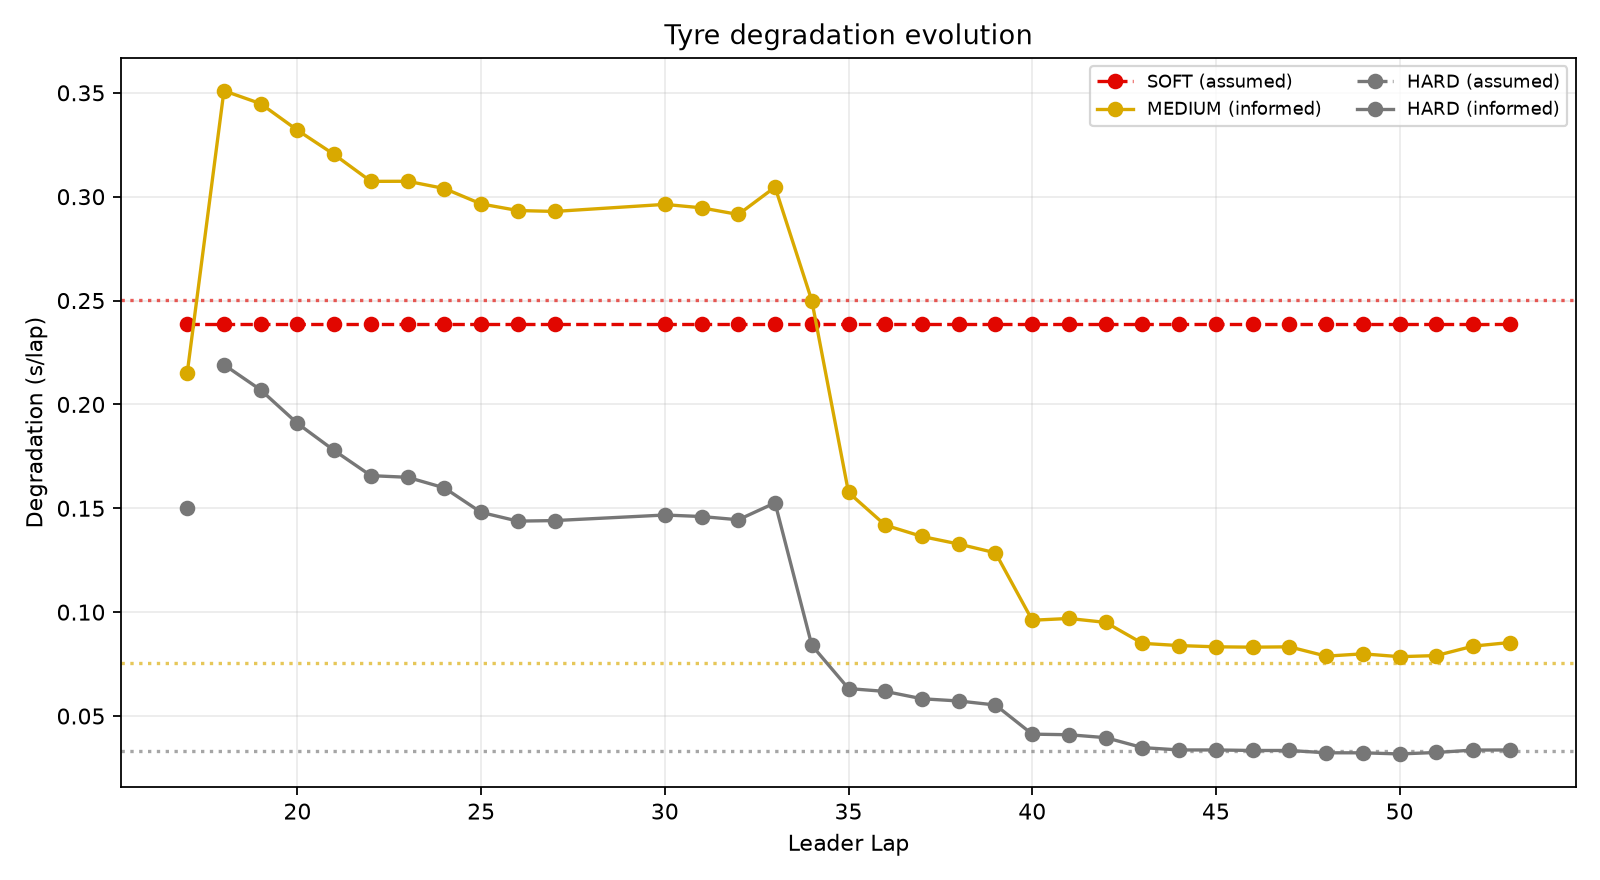
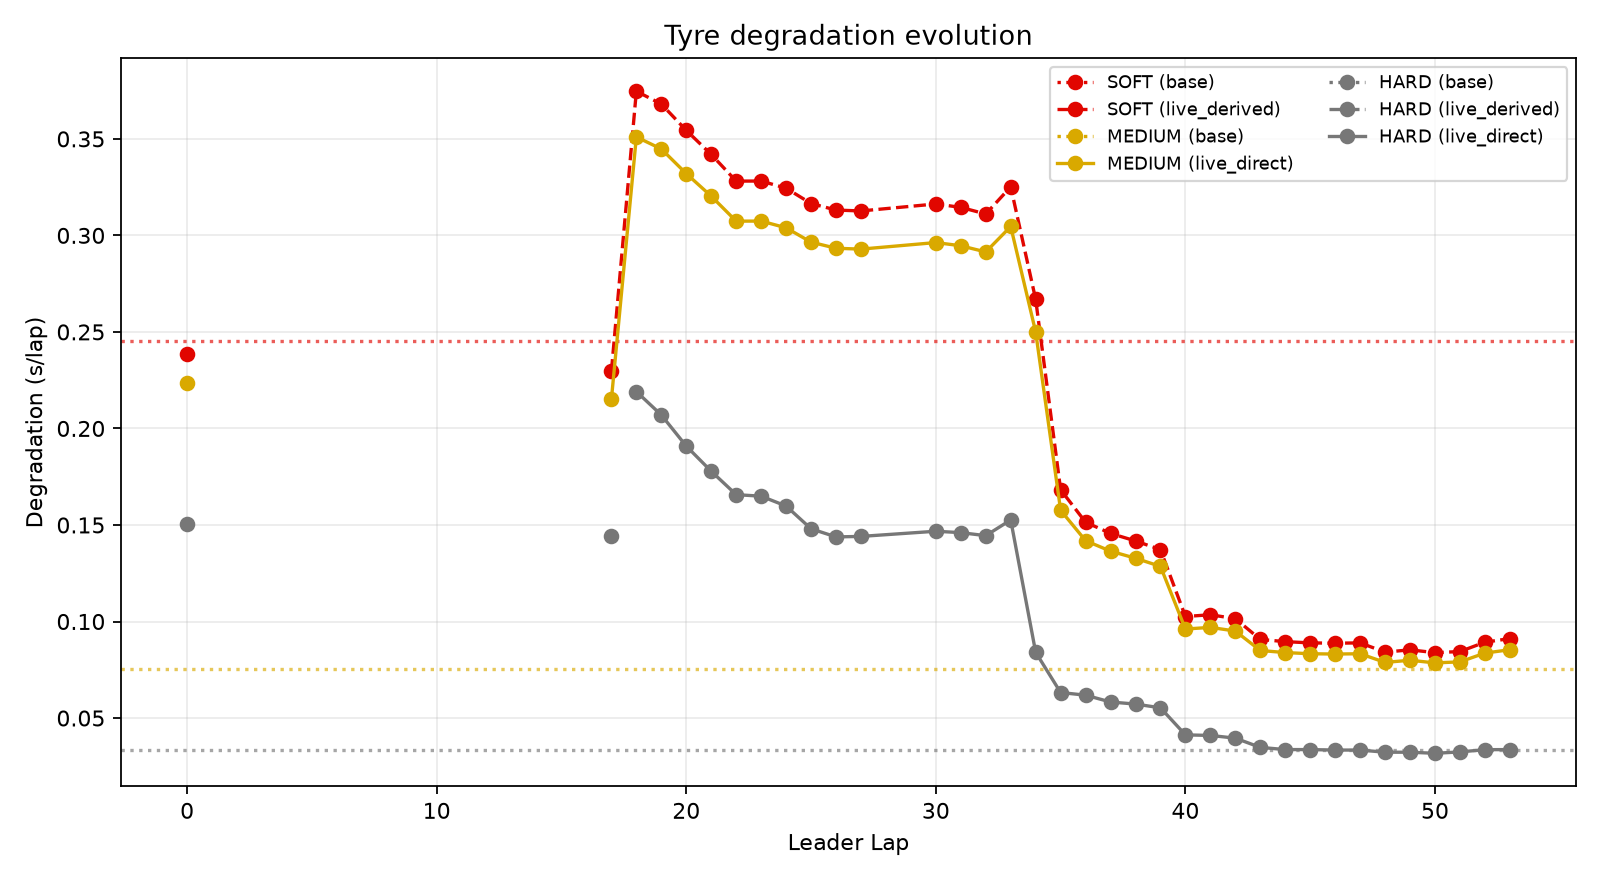
Refresh corrected R13 tyre degradation figure

diff --git a/README.md b/README.md
@@ -29,9 +29,13 @@ Italian Grand Prix** weekend.
 - **Question:** how should the pre-race degradation assumptions change as usable
   Race evidence arrives?
 - **Method:** causal leader-lap cuts update directly informed compounds while
-  retaining explicit assumed/derived values for unsupported coordinates.
+  retaining explicit assumed/derived values for unsupported coordinates. In
+  this R13 replay, MEDIUM is directly informed, HARD changes from derived to
+  direct once supported, and unsupported SOFT remains derived from MEDIUM using
+  the implemented pre-race compound relationship.
 - **Interpretation:** an informed point is still an estimate; sampler adequacy
   and identifiability are reported separately from apparent curve stability.
+  Dotted, dashed and solid lines denote base, derived and direct values.
 
 ## What strategy implications follow?
 
